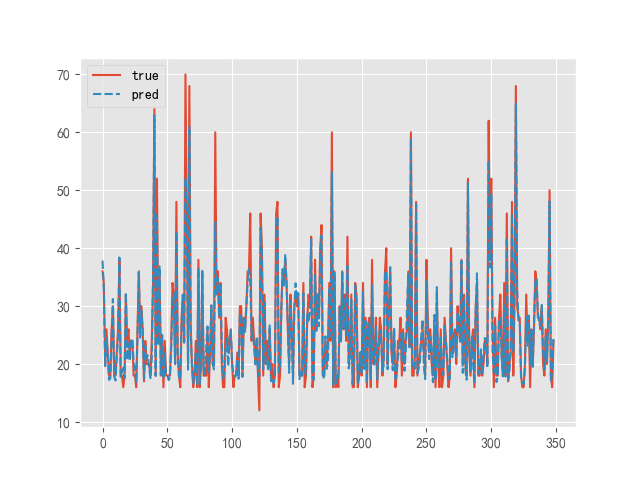
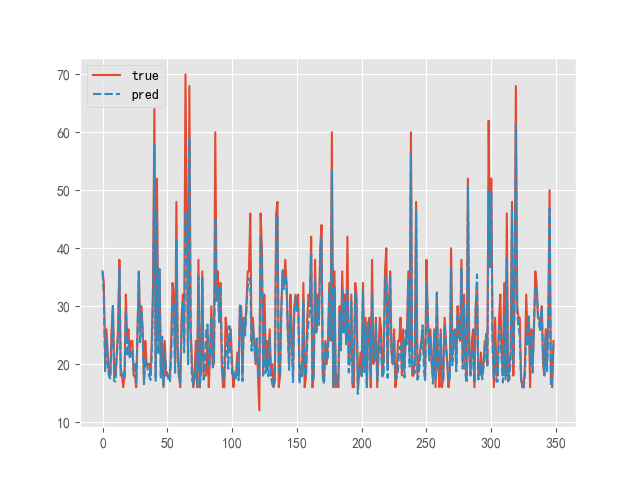
2022.4.3

Changed region(s): [[0.1562, 0.3125, 0.875, 0.8125], [0.2188, 0.25, 0.25, 0.3125], [0.7812, 0.2188, 0.8125, 0.25]]

diff --git a/train.py b/train.py
@@ -22,11 +22,9 @@ np.random.seed(10)
 
 data = pd.read_excel('data/bistandard+soft_fill.xlsx')
 
-
 data_x = data.iloc[:, :-1]
 feat_importance = data_x.columns
 data_y = data.iloc[:, -1]  # ！！！
-
 
 train_x, test_x, train_y, test_y = train_test_split(data_x, data_y, test_size=0.2, shuffle=True, random_state=10)
 
@@ -83,7 +81,7 @@ clf = TabNetRegressor(
 clf.fit(
     train_x, train_y,
     batch_size=256,
-    max_epochs=256,
+    max_epochs=128,
     eval_set=[(valid_x, valid_y)],
     eval_metric=['rmse', 'mae'],
     patience=0
@@ -135,7 +133,6 @@ plot_data = pd.DataFrame(data={
     'importance': importance
 })
 plot_data = plot_data.set_index(keys='feat_name', drop=True)
-print(plot_data)
 plot_data.plot(kind='bar')
 plt.show()
 # 下面计算特征重要性（shap使用）

diff --git a/def_fun.py b/def_fun.py
@@ -9,8 +9,6 @@ import matplotlib.pyplot as plt
 import seaborn as sns
 
 
-
-
 def kfold_stats_feature(train, feats, y, k, seed):
     '''
     Target-Encode
@@ -50,6 +48,7 @@ def mean_score(lstsentence):
     result = a(lstsentence)
     return float(result[0]['score'])
 
+
 def plot_history(history):
     loss = history['loss']
     lr = history['lr']
@@ -70,7 +69,3 @@ def plot_history(history):
     plt.legend()
     plt.savefig('picture/loss.png')
     plt.show()
-
-
-
-
